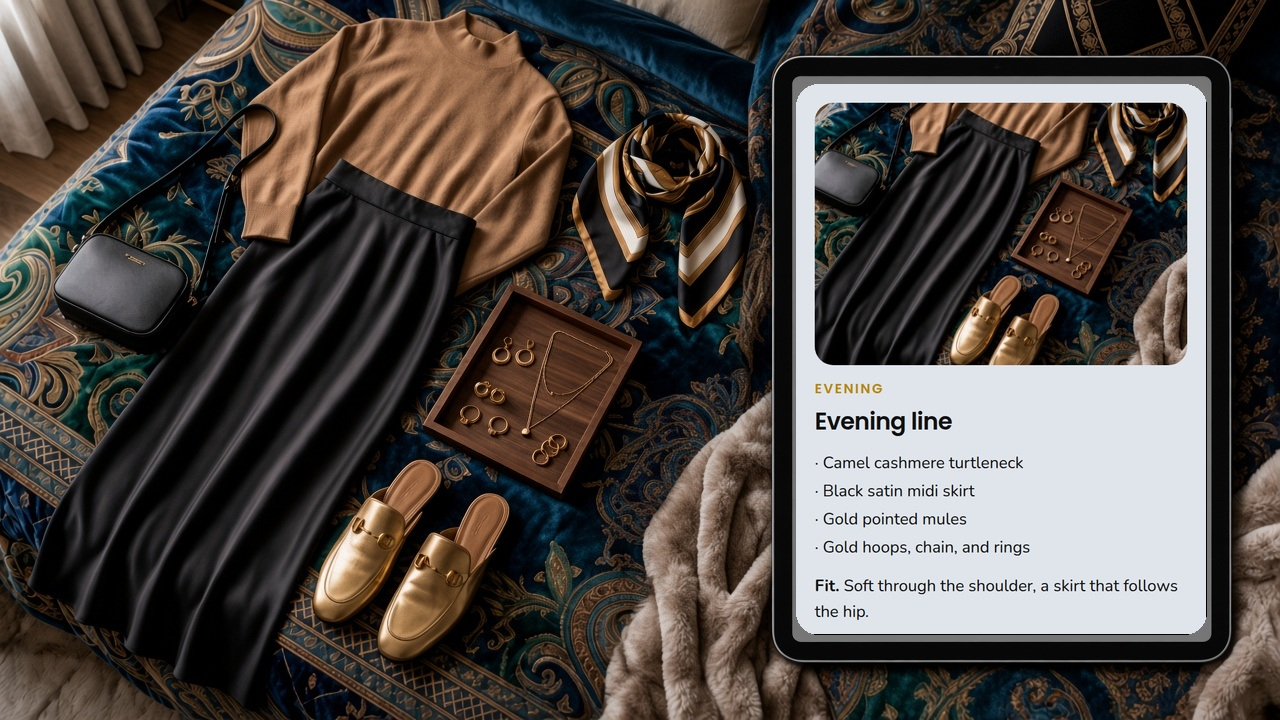
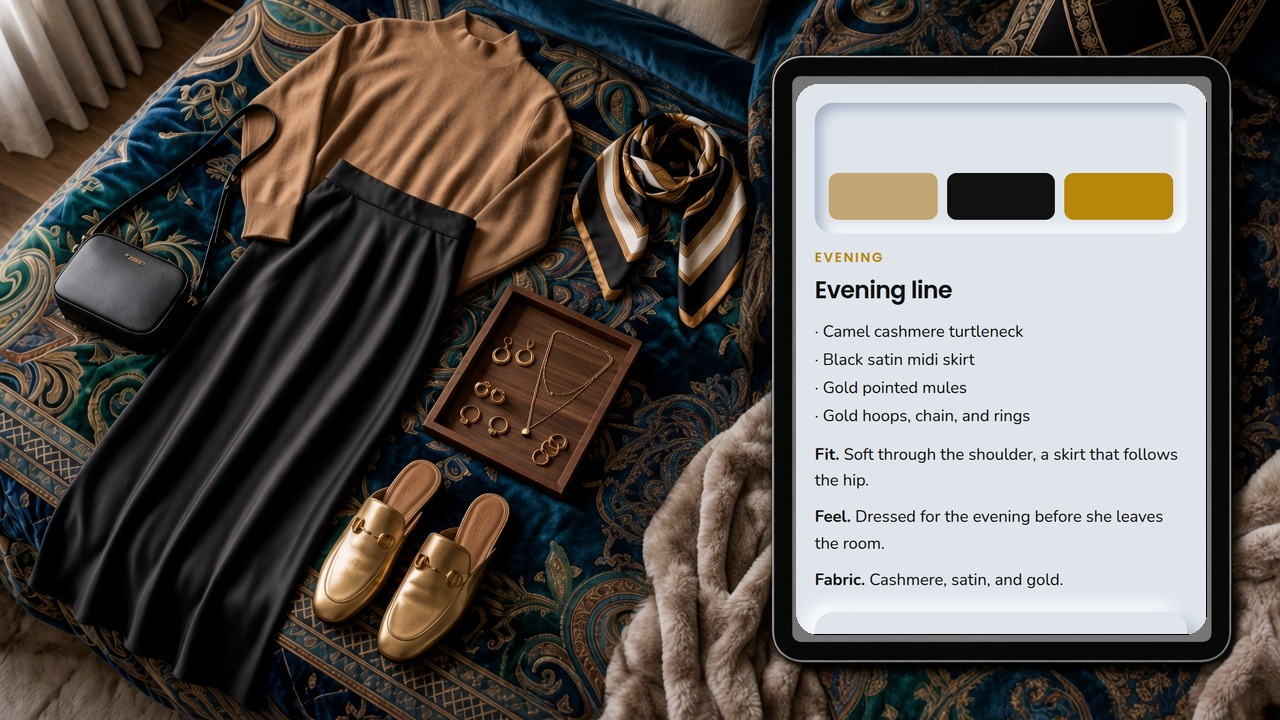
Remove the photograph from the Bee screen.
The iPad lists the evening pieces in the Style Guide and no longer shows a picture.

Changed region(s): [[0.625, 0.1222, 0.9375, 0.7639], [0.625, 0.7944, 0.9375, 0.8556]]

diff --git a/src/routes/index.tsx b/src/routes/index.tsx
@@ -36,7 +36,7 @@ const PRODUCTS = [
     href: "/app",
     cta: "Enter Bee",
     image: beeHoldingApp,
-    alt: "A women's evening look laid out on the bed: camel turtleneck, black satin skirt, gold mules, scarf, bag, and jewelry, open in the Bee app",
+    alt: "A women's evening look laid out on the bed: camel turtleneck, black satin skirt, gold mules, scarf, bag, and jewelry, listed in the Bee app with no photograph on the screen",
     mark: "/bee-logo-192.png",
     offers: [
       {
